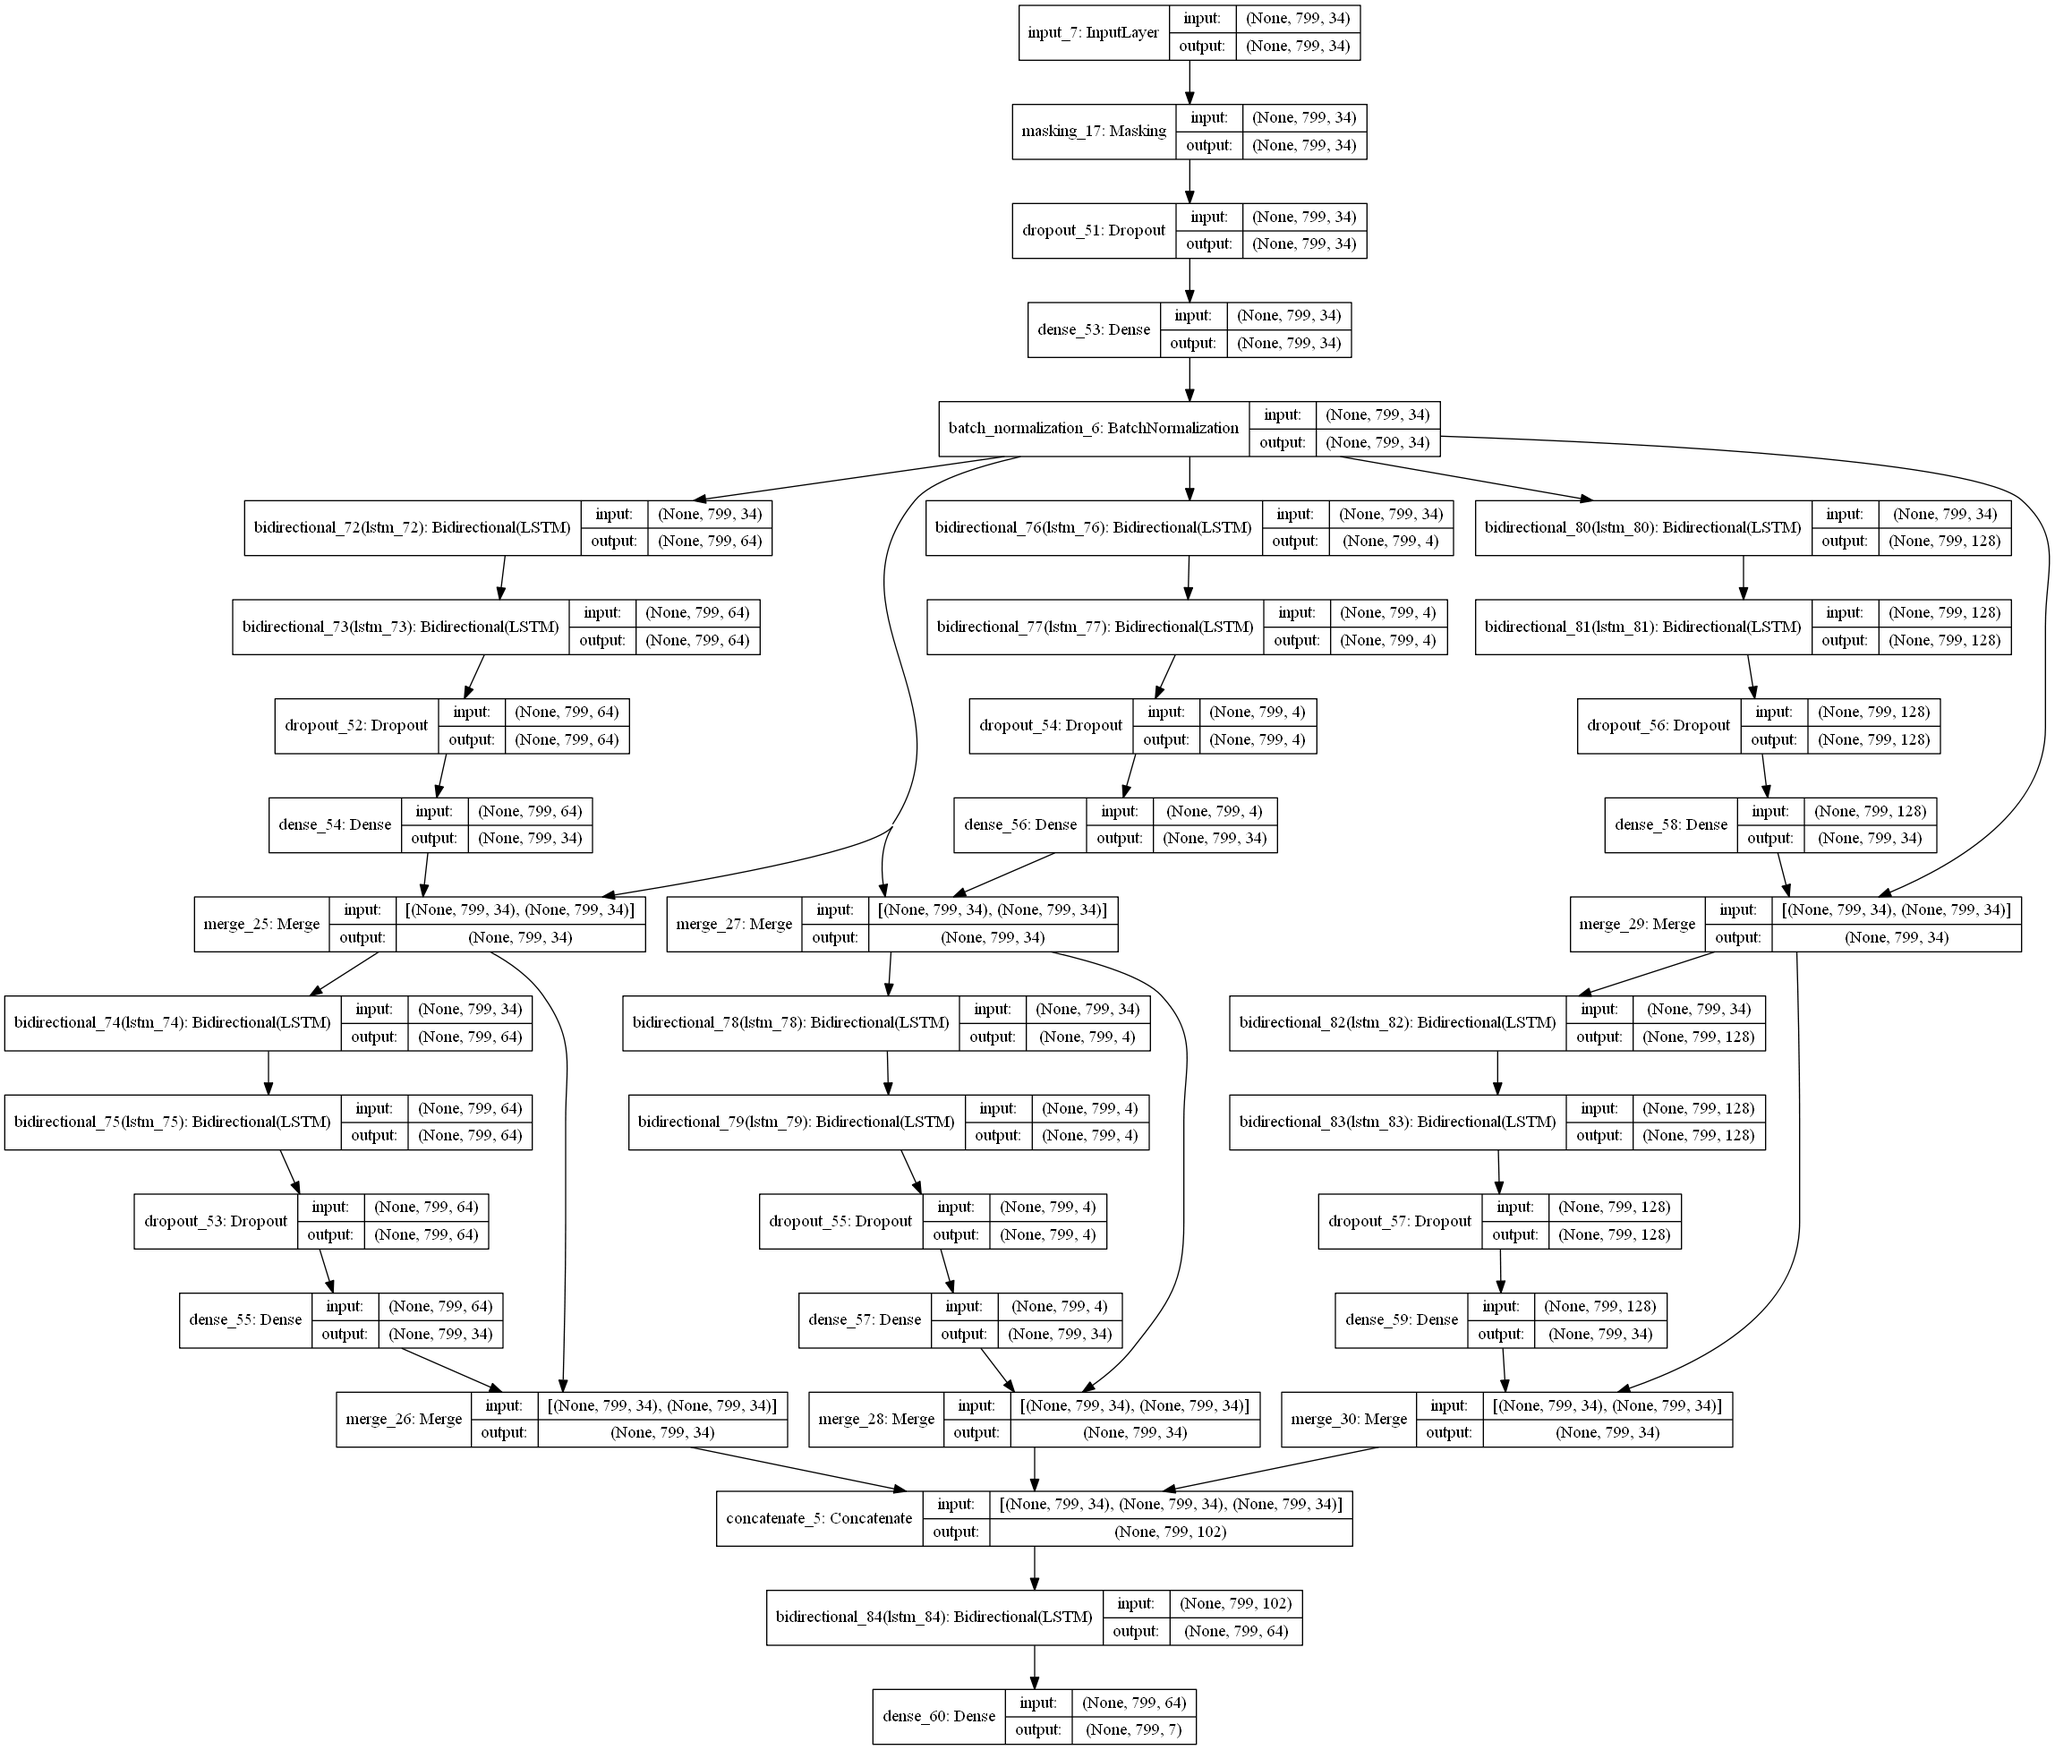
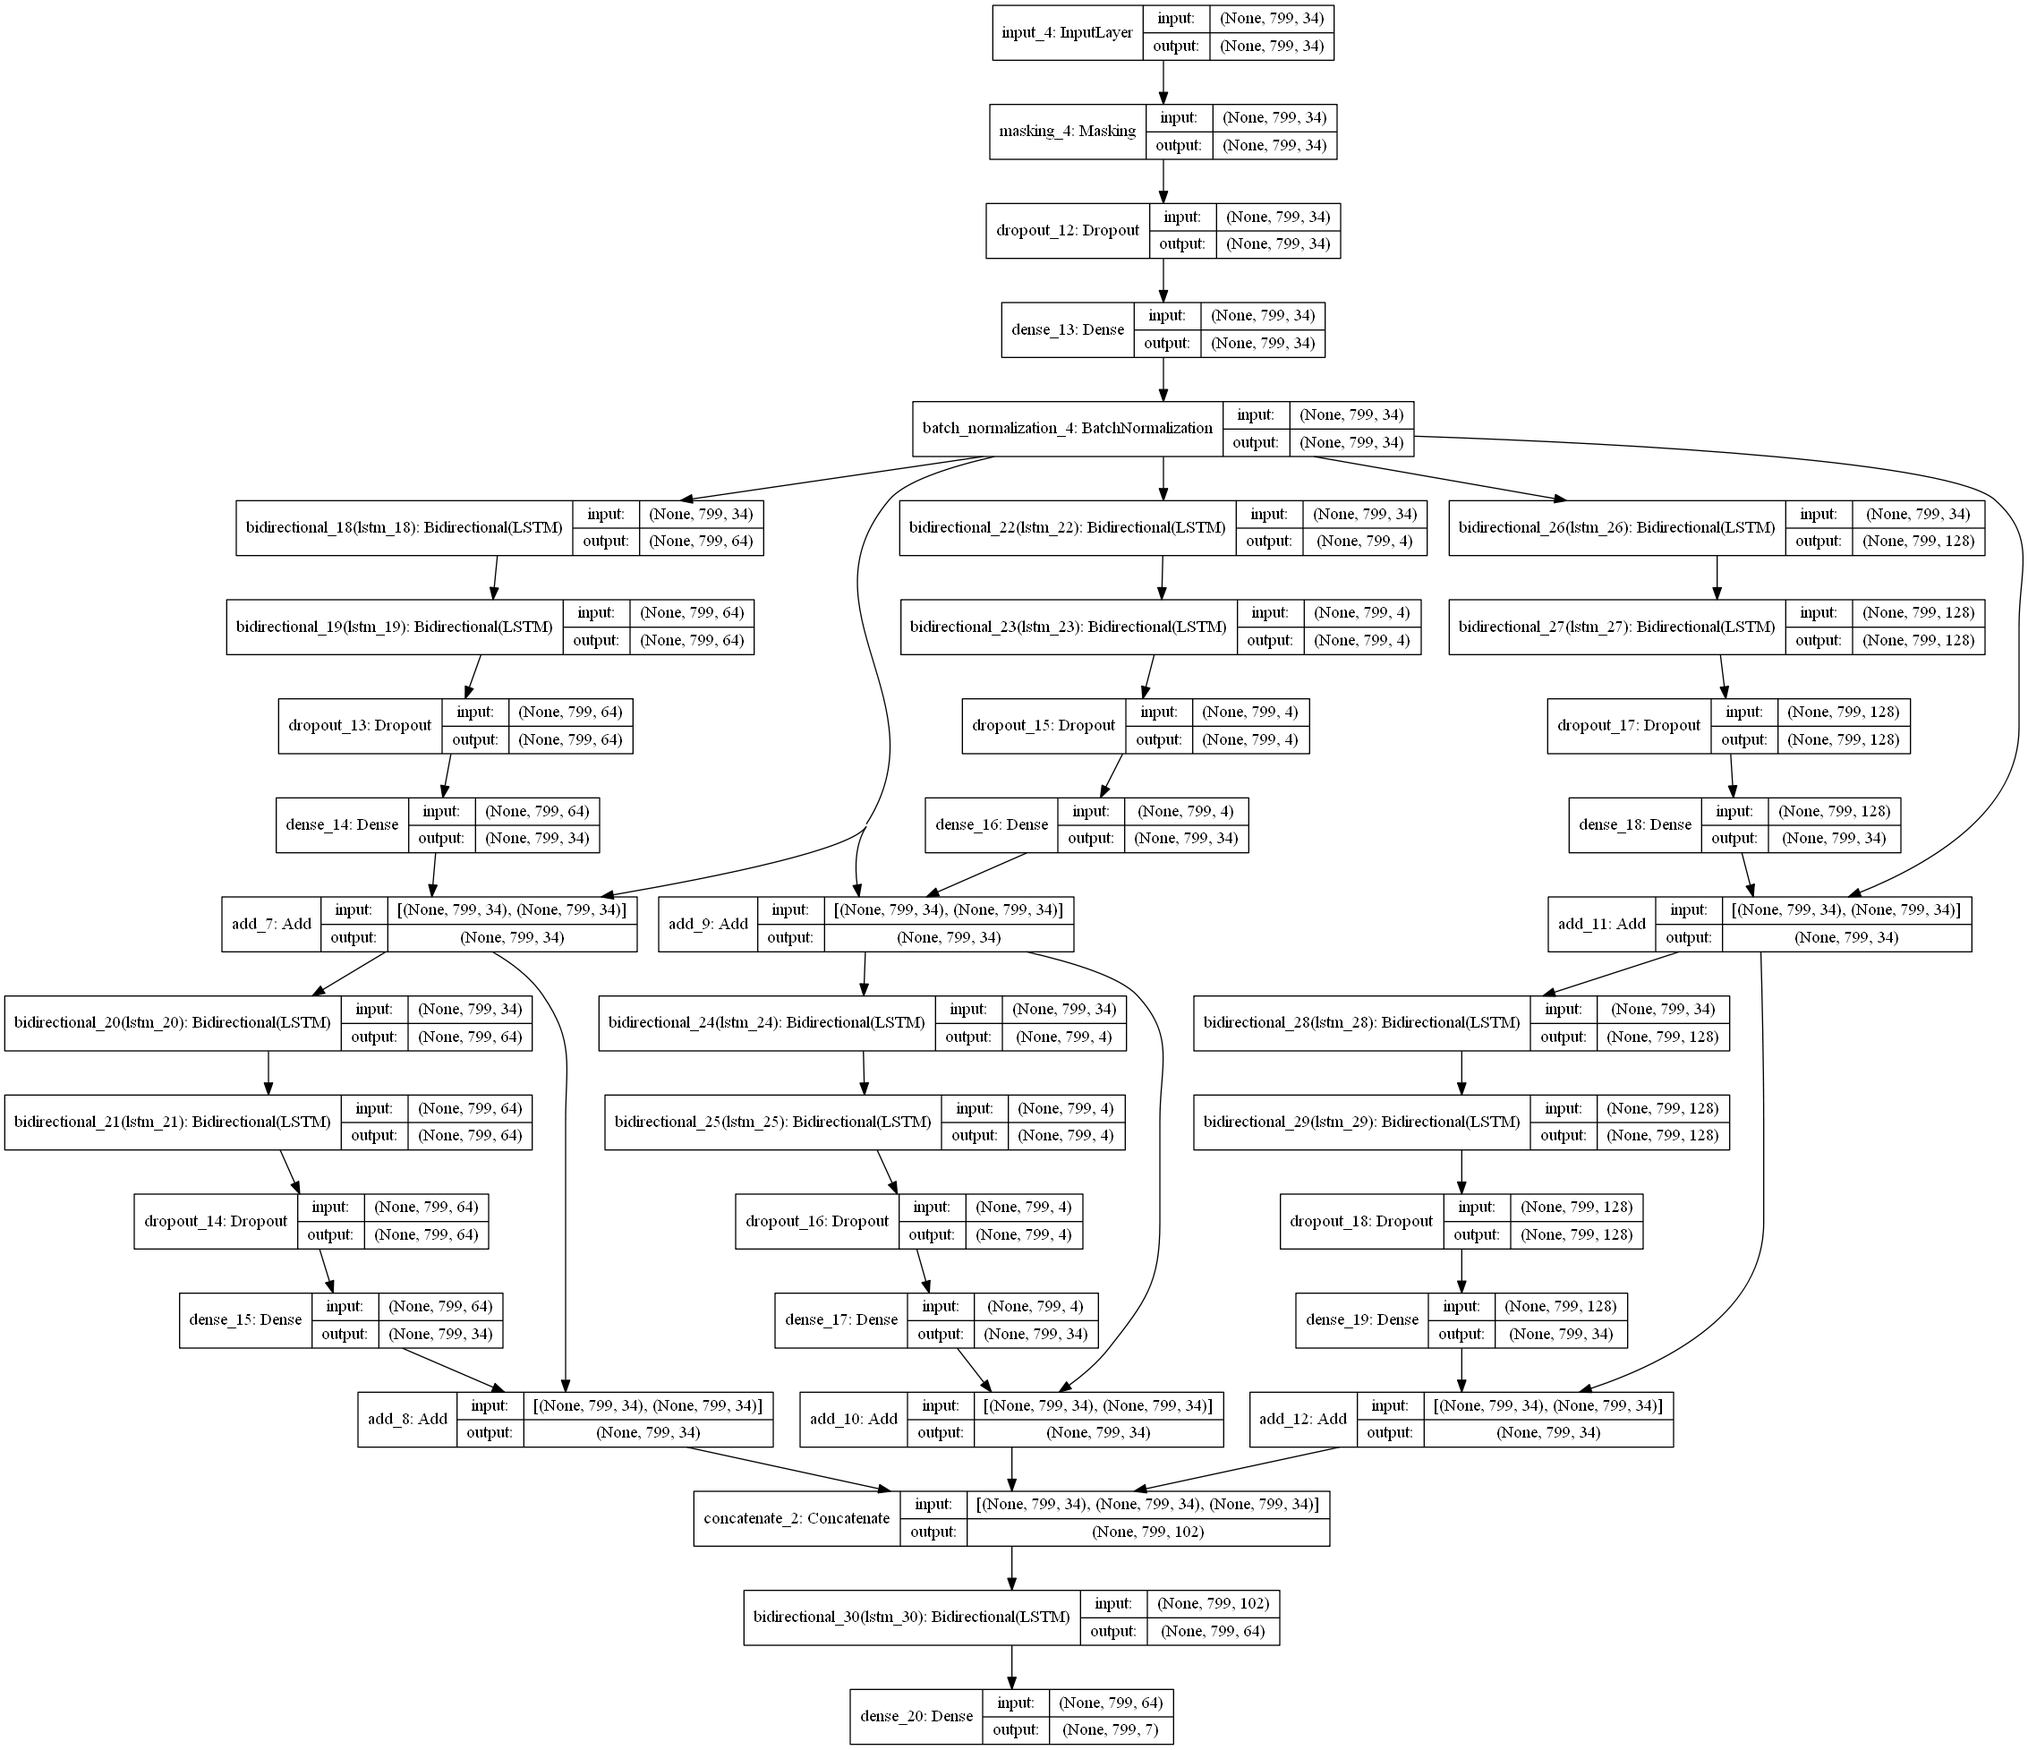
Update error corrected.
Changed layer merged([x,1,x2], method=sum) to layer add([x1,x2])

diff --git a/build_model_residual.py b/build_model_residual.py
@@ -11,15 +11,15 @@ import keras
 
 from keras.models import Model
 
-from keras import optimizers 
-from keras import losses
-from keras import metrics
-from keras import models
+#from keras import optimizers 
+#from keras import losses
+#from keras import metrics
+#from keras import models
 from keras import layers
-from keras import callbacks
+#from keras import callbacks
 from keras import regularizers
 
-from keras.utils import np_utils
+#from keras.utils import np_utils
 
 from keras.layers import Input
 from keras.layers import Dense
@@ -49,7 +49,9 @@ def ResNet_deep_Beta(X_train,Y_train,Var):
                                 kernel_constraint=max_norm(max_value=3.), dropout=Var.dropout, recurrent_dropout=Var.dropout))(x)                         
                  x=layers.Dropout(Var.dropout, noise_shape=(None, 1, Var.hidden_units*2))(x) 
                  x=layers.Dense(Var.Dense_Unit, activation=Var.activationF, kernel_constraint=max_norm(max_value=3.))(x)                                                  
-                 x = merge([ident,x], mode = 'sum') #mode 'sum' concat
+#                 x = merge([ident,x], mode = 'sum') #mode 'sum' concat
+                 x=layers.add([ident,x]) 
+                 
                  return x
             return unit
                              
@@ -96,7 +98,7 @@ def ResNet_wide_Beta(X_train,Y_train,Var):
                                 kernel_constraint=max_norm(max_value=3.), dropout=Var.dropout, recurrent_dropout=Var.dropout))(x)                                      
                  x=layers.Dropout(Var.dropout, noise_shape=(None, 1, hidden_units*2))(x) 
                  x=layers.Dense(Var.Dense_Unit, activation=Var.activationF, kernel_constraint=max_norm(max_value=3.))(x)                                                  
-                 x = merge([ident,x], mode = 'sum') #mode 'sum' concat
+                 x=layers.add([ident,x]) 
                  return x
             return unit
                              
@@ -126,8 +128,6 @@ def ResNet_wide_Beta(X_train,Y_train,Var):
        
        i = layers.concatenate([Pfad1, Pfad2, Pfad3])
 
-       
-               
        Outro_out=layers.Bidirectional(LSTM(Var.hidden_units, return_sequences=True, kernel_constraint=max_norm(max_value=3.), dropout=Var.dropout, recurrent_dropout=Var.dropout))(i)                   
        Outro_out = Dense(Y_train.shape[-1],activation='softmax', kernel_constraint=max_norm(max_value=3.))(Outro_out)
 

diff --git a/wrapper_DNN.py b/wrapper_DNN.py
@@ -82,7 +82,7 @@ class Variablen:
 #       split=[0.60,0.2,0.2];# HOw to split the dataset in [Train, Validation, Test] e.g.70:15:15  or 50:25:25 ,... # The split is done for each fold. Just for the chekout phase use fold one. Later calculate how often the test split fits into the total data, that is the fold. e.g. 30 patients with 15% test -> 4.5 (round to 5) patients per fold. Now see how many times the 30 can be folded with 5 patients in the test set to cover all patients. 30/5=6 -> 6 fold
        split=[0.70,0.30];
        batchsize=5  # LSTM needs [batchsize, timestep, feature] your batch size divides nb_samples from the original tensor. So batchsize should be smaller than samples
-       Epochs=3
+       Epochs=200
        hidden_units=32 # 2-64 or even 1000 as used by sleepnet best: multible of 32
        Dense_Unit=34
        dropout=0.5 #0.5; 0.9  dropout can be between 0-1  as %  DROPOUT CAN BE ADDED TO EACH LAYER

diff --git a/Loading_5min_mat_files_DNN.py b/Loading_5min_mat_files_DNN.py
@@ -49,7 +49,8 @@ def Loading_data_all(Var,Varplus):
               if ux:
                      folder=('/home/310122653/Pyhton_Folder/cECG/cMatrices/')
               else:
-                     folder=('C:/Users/310122653/Dropbox/PHD/python/cECG/cMatrices/')
+#                     folder=('C:/Users/310122653/Dropbox/PHD/python/cECG/cMatrices/')
+                      folder=('C:/Users/310122653/Documents/PhD/Article_3_(cECG)/Processed Data/Matrix_Intellivue')
                      
        if 'MMC'== Var.dataset:        
               if Var.usedPC=='Cluster':

diff --git a/DNN_routines.py b/DNN_routines.py
@@ -13,7 +13,7 @@ from sklearn.cross_validation import KFold
 from sklearn.metrics import cohen_kappa_score
 from sklearn.metrics import precision_score, recall_score
 
-from Use_imbalanced_learn import cmplx_Oversampling
+#from Use_imbalanced_learn import cmplx_Oversampling
 
 
 import keras
